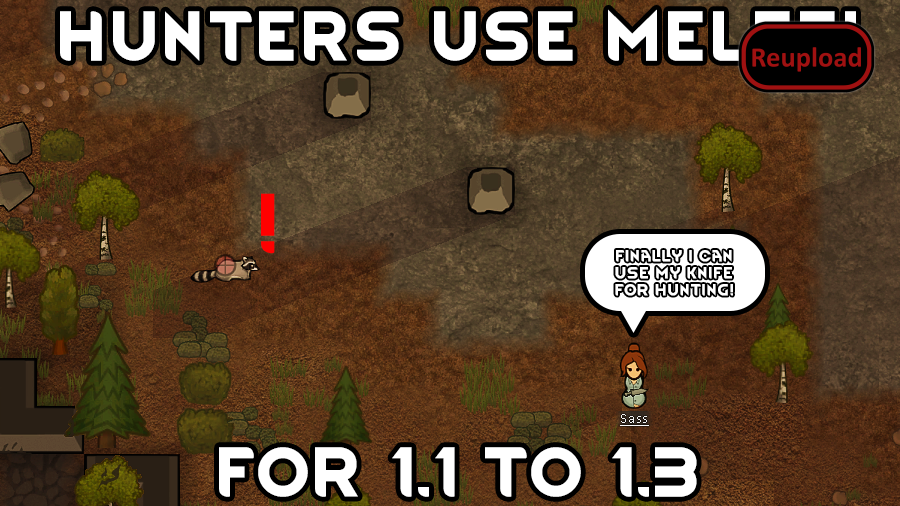
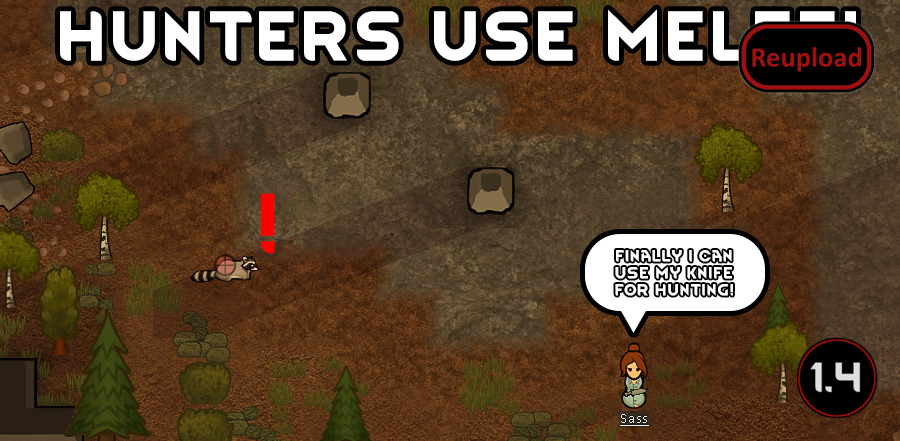
Removed old versioninfo in the preview image

diff --git a/README.md b/README.md
@@ -50,4 +50,4 @@ Thanks to all the helpful people over at the RimWorld Discord who have helped me
 -  If you have the solution for a problem, please post it to the GitHub repository.
 
 
-https://steamcommunity.com/sharedfiles/filedetails/changelog/2900108163]Last updated 2023-01-04
+https://steamcommunity.com/sharedfiles/filedetails/changelog/2900108163]Last updated 2023-08-01
